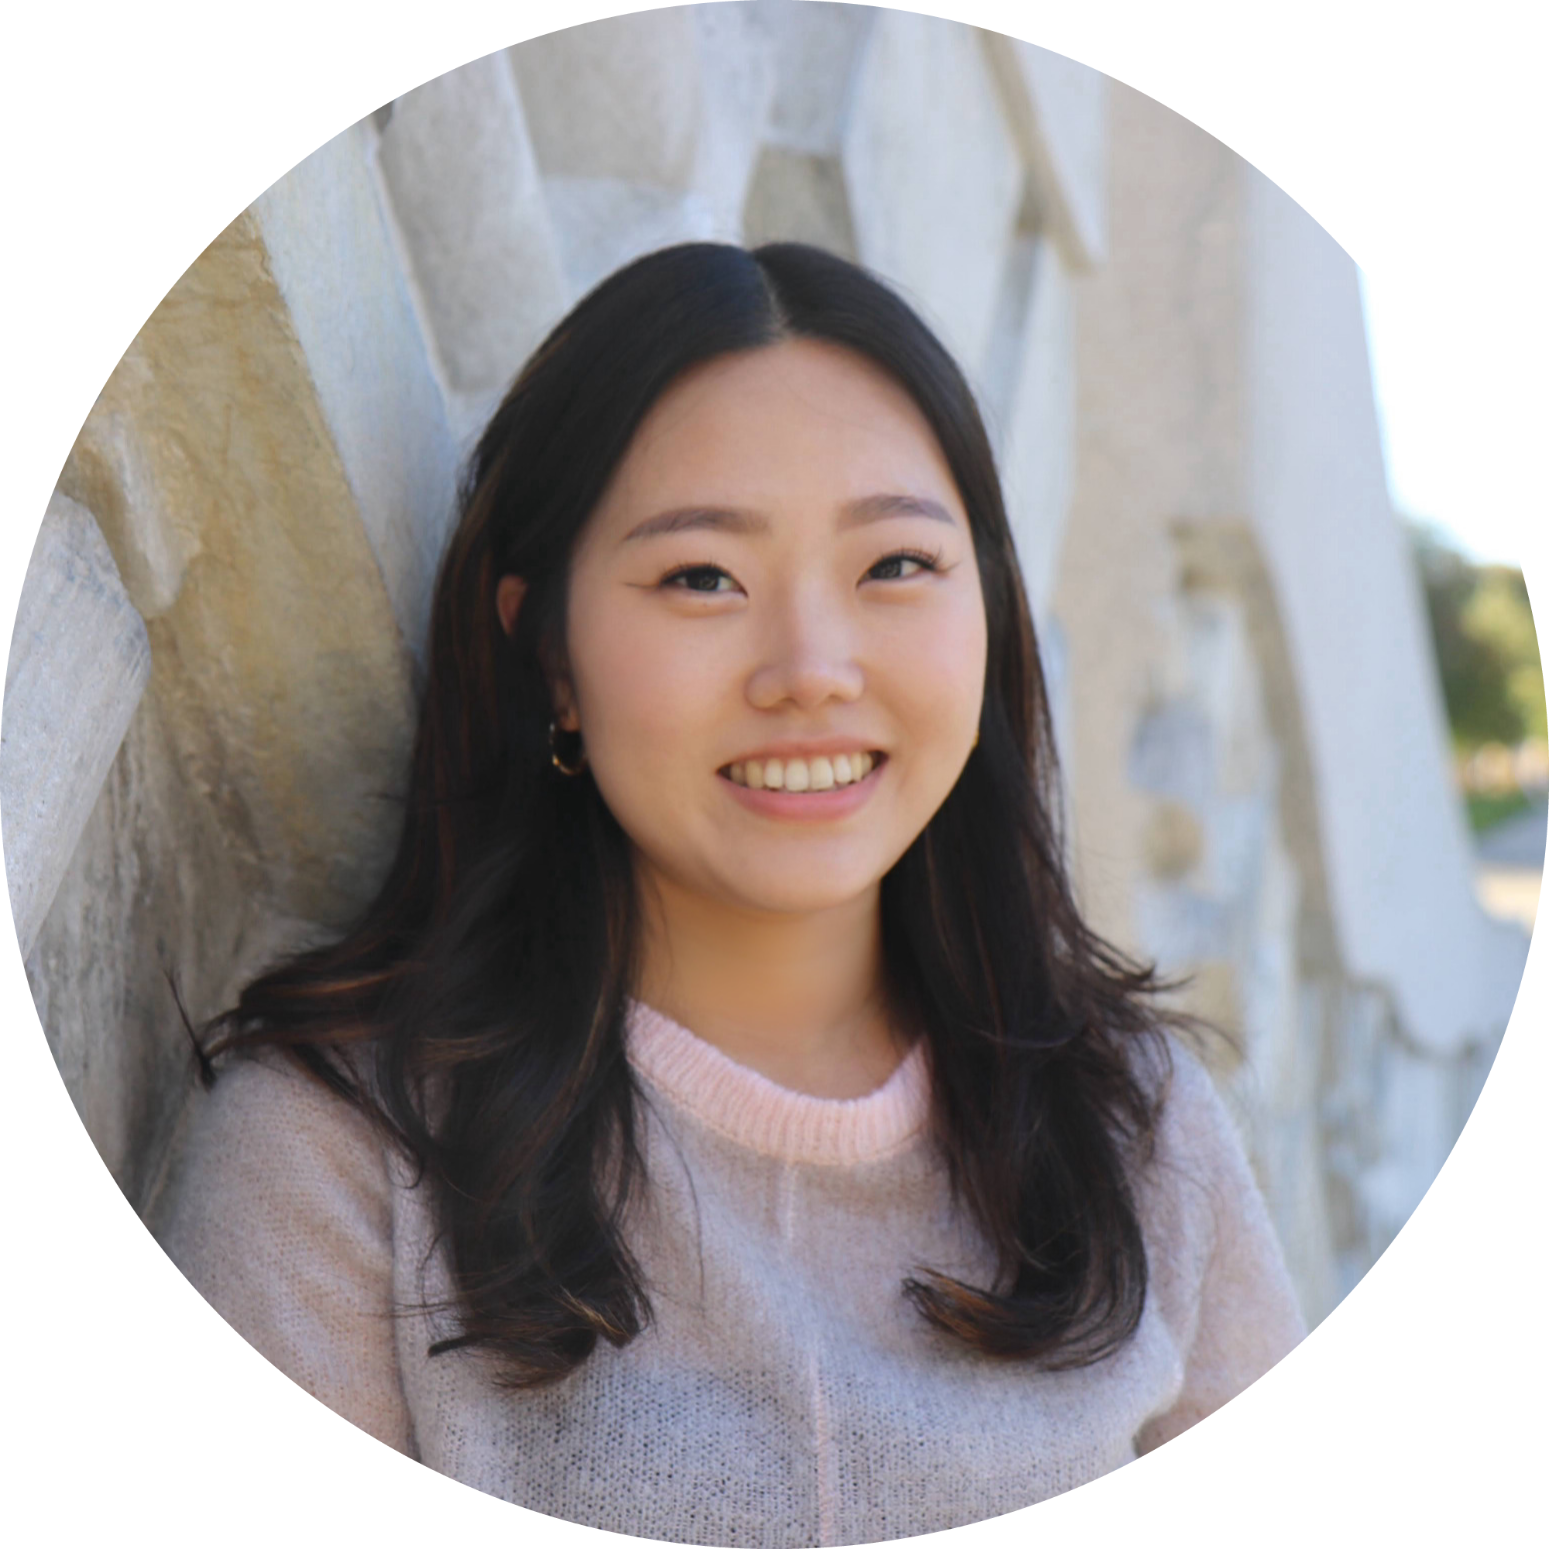
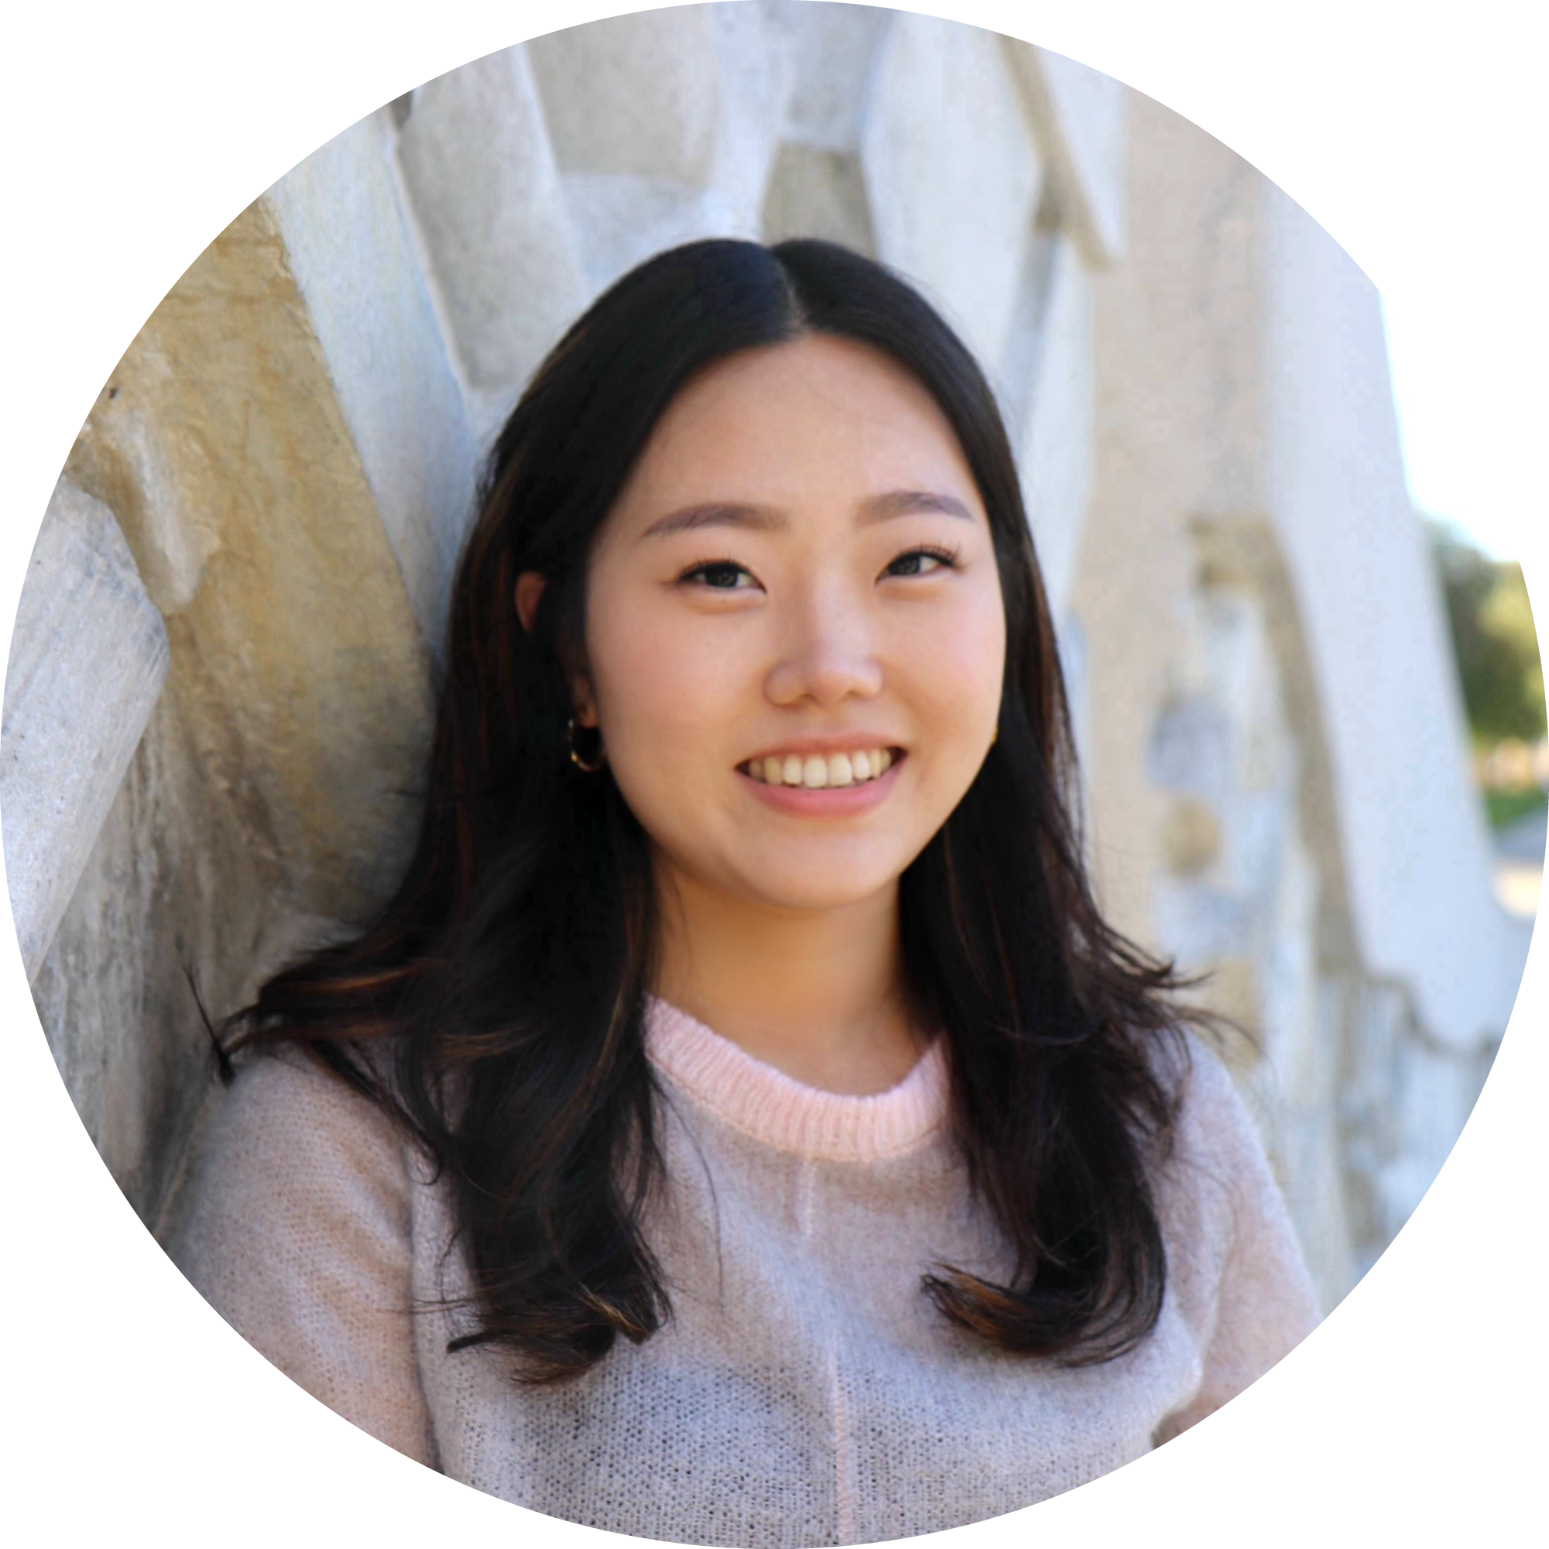
change the main image

diff --git a/components/Photo.jsx b/components/Photo.jsx
@@ -32,7 +32,7 @@ const Photo = () => {
           />
         </motion.div>
         {/* Circle */}
-        {/* <motion.svg
+        <motion.svg
           className="absolute transform -translate-x-[10px] -translate-y-[5px]"
           width="500"  
           height="500" 
@@ -61,7 +61,7 @@ const Photo = () => {
               repeatType: "reverse",
             }}
           />
-        </motion.svg> */}
+        </motion.svg>
       </motion.div>
     </div>
   );
